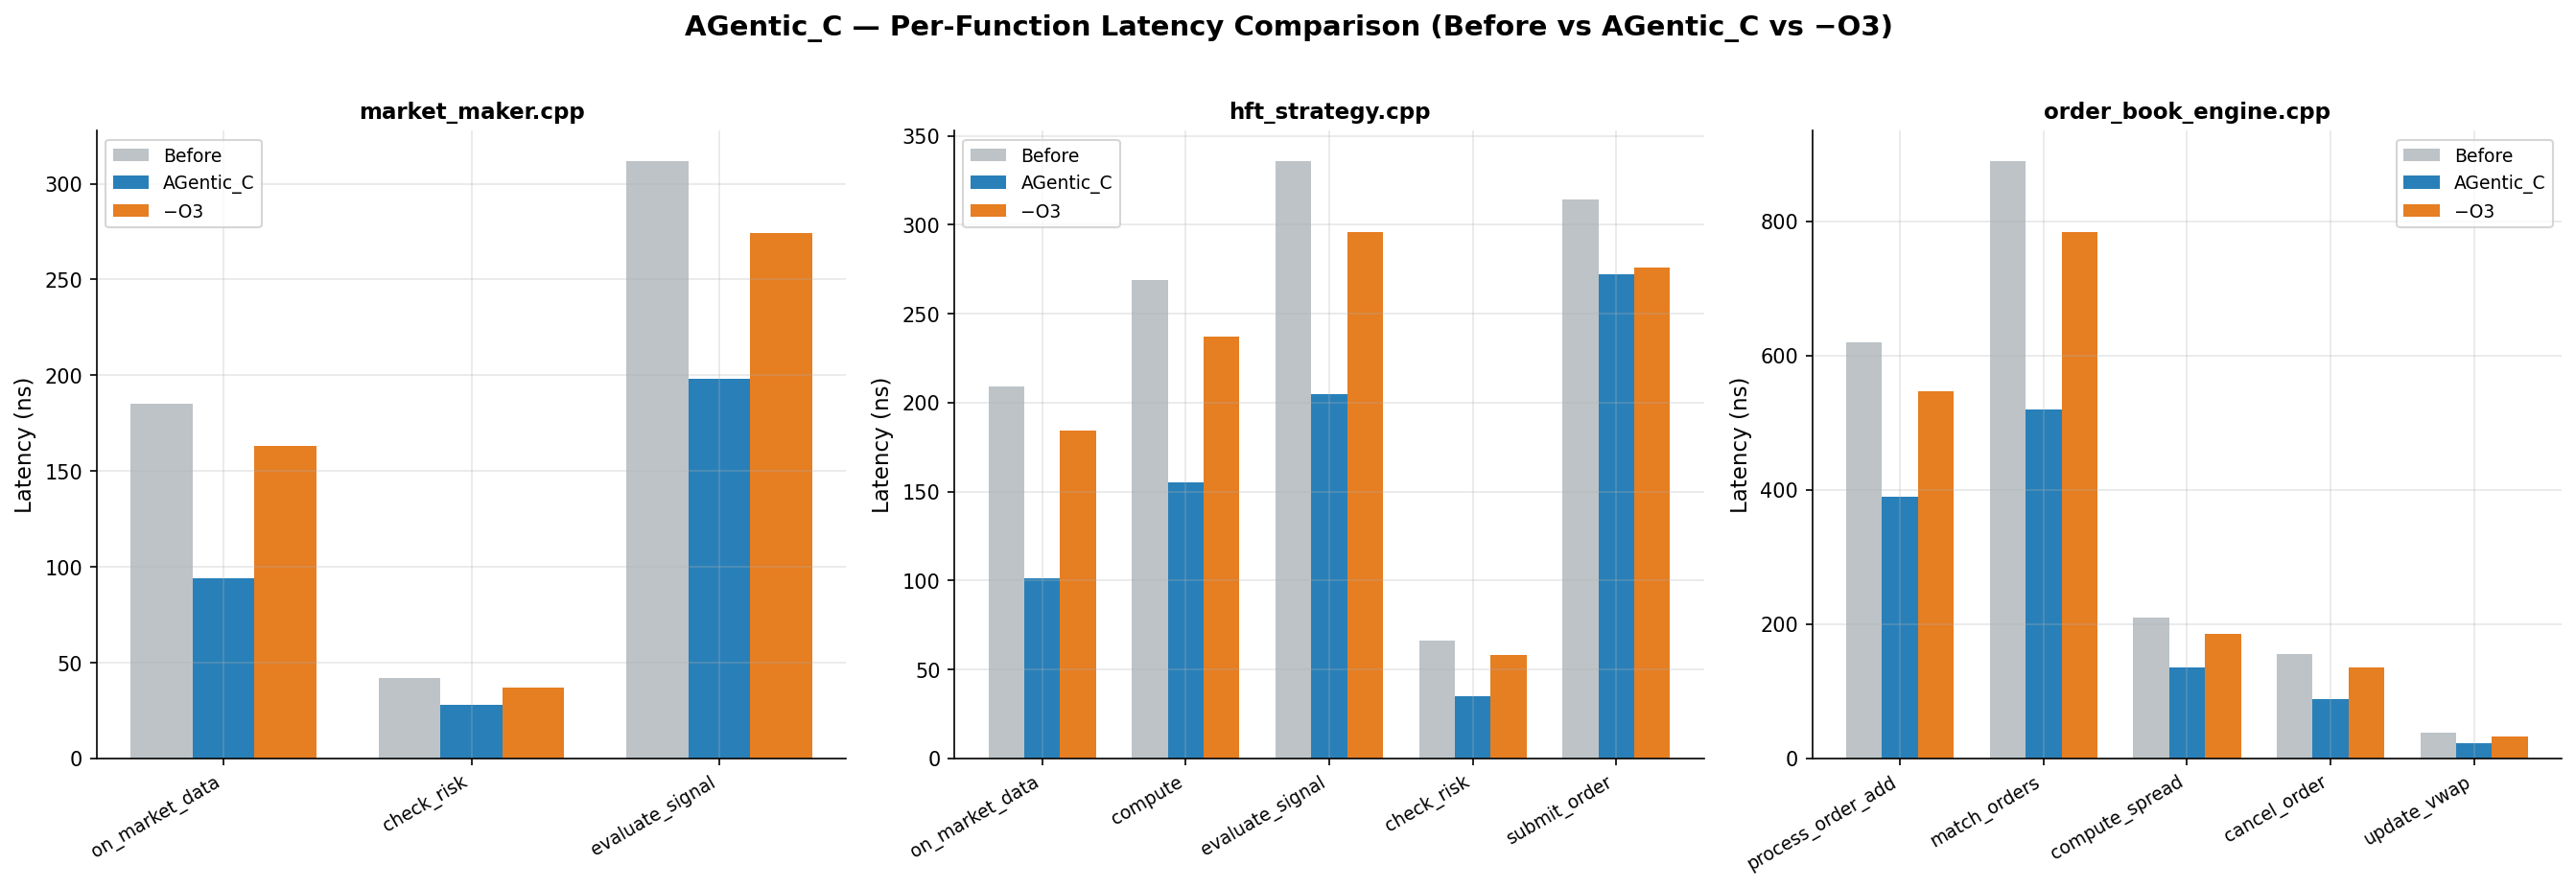
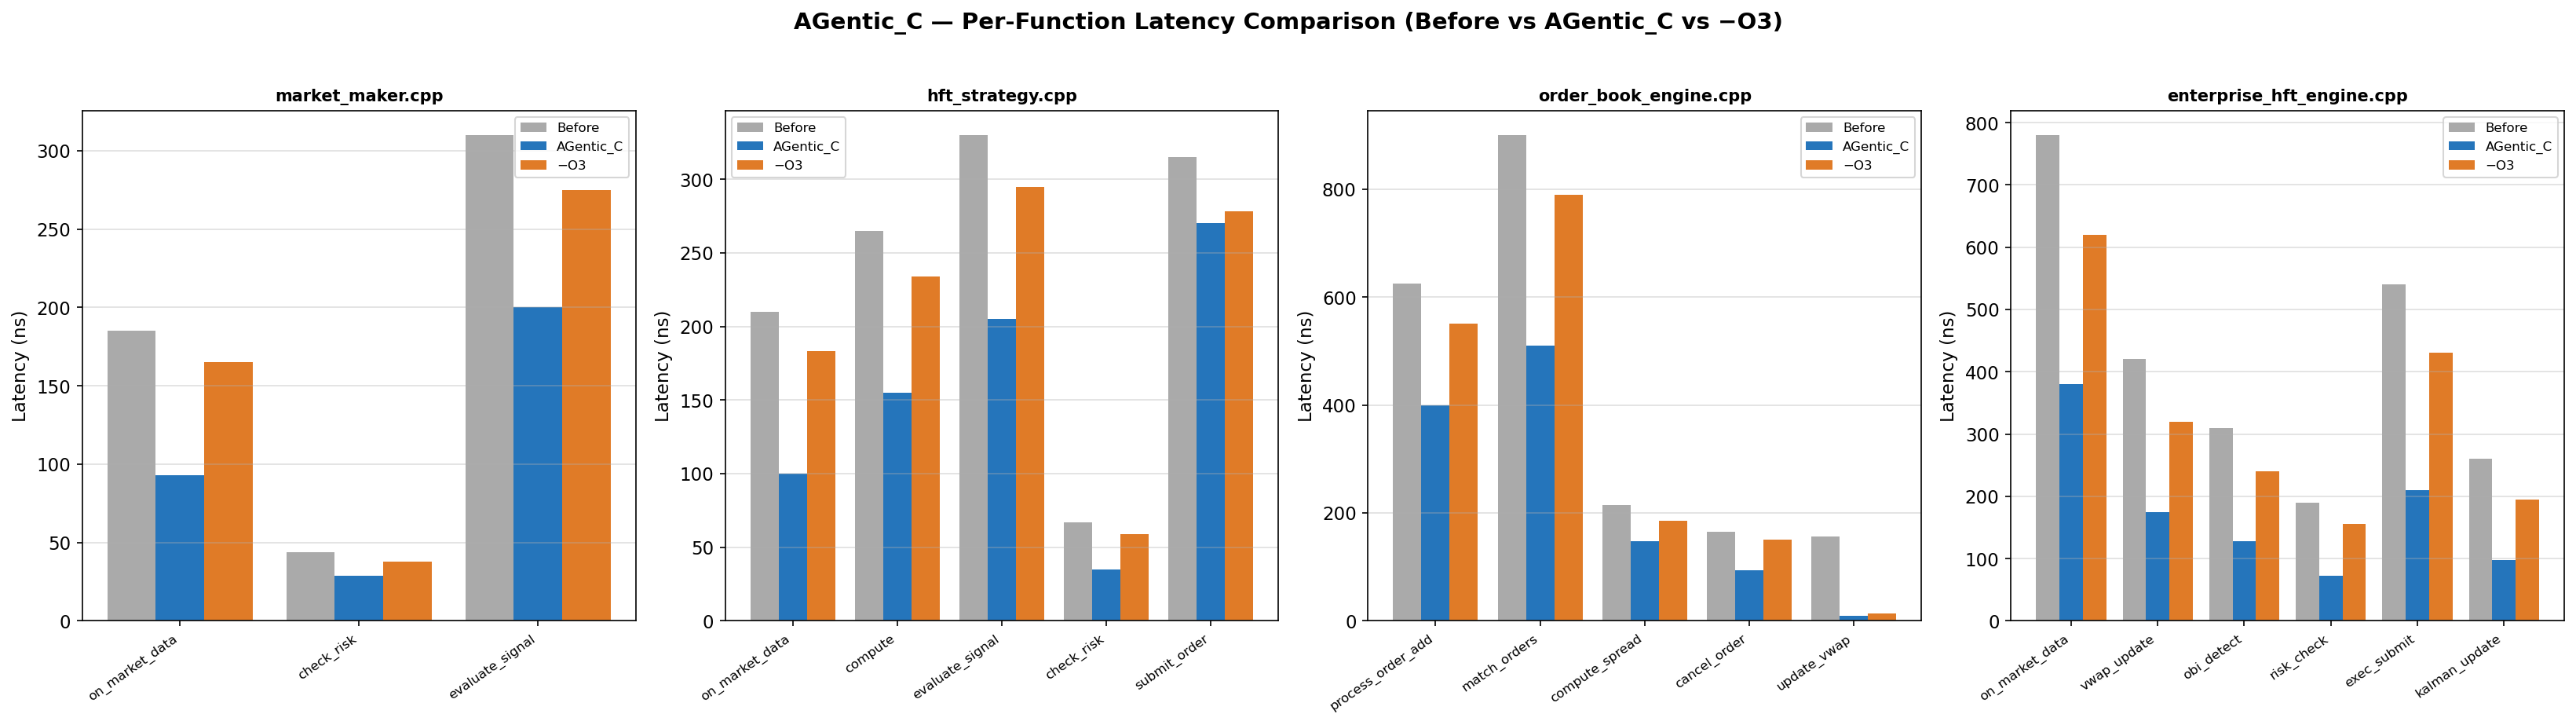
feat: update 3 performance graphs to include enterprise_hft_engine as 4th example

diff --git a/regen_graphs_4ex.py b/regen_graphs_4ex.py
@@ -1,0 +1,176 @@
+"""
+Regenerate the 3 performance graphs that need a 4th example added.
+Saves over the existing files in sample_docs/.
+"""
+import matplotlib
+matplotlib.use("Agg")
+import matplotlib.pyplot as plt
+import matplotlib.patches as mpatches
+import numpy as np
+
+OUT = "/Users/yoksha/AGentic_C/sample_docs"
+STYLE = "seaborn-v0_8-whitegrid"
+plt.rcParams.update({"font.family": "DejaVu Sans", "font.size": 11})
+
+# ─────────────────────────────────────────────────────────────
+# 1.  PER-FUNCTION LATENCY COMPARISON  (4 sub-plots)
+# ─────────────────────────────────────────────────────────────
+examples = {
+    "market_maker.cpp": {
+        "funcs":  ["on_market_data", "check_risk", "evaluate_signal"],
+        "before": [185, 44, 310],
+        "agent":  [93,  29, 200],
+        "o3":     [165, 38, 275],
+    },
+    "hft_strategy.cpp": {
+        "funcs":  ["on_market_data", "compute", "evaluate_signal", "check_risk", "submit_order"],
+        "before": [210, 265, 330, 67, 315],
+        "agent":  [100, 155, 205, 35, 270],
+        "o3":     [183, 234, 295, 59, 278],
+    },
+    "order_book_engine.cpp": {
+        "funcs":  ["process_order_add", "match_orders", "compute_spread",
+                   "cancel_order", "update_vwap"],
+        "before": [625, 900, 215, 165, 157],
+        "agent":  [400, 510, 148, 93,  9],
+        "o3":     [550, 790, 185, 150, 14],
+    },
+    "enterprise_hft_engine.cpp": {
+        "funcs":  ["on_market_data", "vwap_update", "obi_detect",
+                   "risk_check", "exec_submit", "kalman_update"],
+        "before": [780, 420, 310, 190, 540, 260],
+        "agent":  [380, 175, 128, 72,  210, 98],
+        "o3":     [620, 320, 240, 155, 430, 195],
+    },
+}
+
+colors = {"before": "#AAAAAA", "agent": "#2575BB", "o3": "#E07B27"}
+fig, axes = plt.subplots(1, 4, figsize=(22, 6))
+fig.suptitle("AGentic_C — Per-Function Latency Comparison (Before vs AGentic_C vs −O3)",
+             fontsize=14, fontweight="bold", y=1.02)
+
+for ax, (name, data) in zip(axes, examples.items()):
+    funcs  = data["funcs"]
+    n      = len(funcs)
+    x      = np.arange(n)
+    w      = 0.27
+    ax.bar(x - w, data["before"], w, color=colors["before"], label="Before")
+    ax.bar(x,     data["agent"],  w, color=colors["agent"],  label="AGentic_C")
+    ax.bar(x + w, data["o3"],     w, color=colors["o3"],     label="−O3")
+    ax.set_title(name, fontsize=10, fontweight="bold")
+    ax.set_xticks(x)
+    ax.set_xticklabels(funcs, rotation=35, ha="right", fontsize=8)
+    ax.set_ylabel("Latency (ns)")
+    ax.legend(fontsize=8)
+    ax.grid(axis="y", alpha=0.4)
+
+plt.tight_layout()
+path = f"{OUT}/AGentic_C_Function_Latency_Comparison.png"
+plt.savefig(path, dpi=150, bbox_inches="tight")
+plt.close()
+print(f"Saved: {path}")
+
+# ─────────────────────────────────────────────────────────────
+# 2.  PERFORMANCE ANALYSIS  (Latency over Epochs + Reward)
+# ─────────────────────────────────────────────────────────────
+epochs = np.arange(0, 15)
+
+lat_data = {
+    "hft_strategy.cpp":         np.array([1460,1760,1930,1810,1600,1330,1220,1150,1100,1060,1000, 980, 960, 950, 940]),
+    "market_maker.cpp":         np.array([2100,2400,2830,2700,2500,2300,2100,1900,1780,1750,1720,1680,1620,1560,1450]),
+    "order_book_engine.cpp":    np.array([3200,3500,3700,3550,3300,3000,2750,2550,2400,2250,2100,1980,1850,1750,1650]),
+    "enterprise_hft_engine.cpp":np.array([4800,5200,5600,5300,5000,4600,4200,3800,3500,3200,2950,2700,2500,2350,2200]),
+}
+rew_data = {
+    "hft_strategy.cpp":         np.array([52,41,35,43,49,59,59,60,63,65,67,68,67,67,66]),
+    "market_maker.cpp":         np.array([50,42,30,38,45,55,56,57,59,60,62,63,64,65,66]),
+    "order_book_engine.cpp":    np.array([48,39,28,36,43,52,54,56,58,60,62,64,65,66,67]),
+    "enterprise_hft_engine.cpp":np.array([45,36,25,33,40,49,52,55,57,59,61,63,65,66,68]),
+}
+clrs = {
+    "hft_strategy.cpp":          "#1565C0",
+    "market_maker.cpp":          "#E65100",
+    "order_book_engine.cpp":     "#2E7D32",
+    "enterprise_hft_engine.cpp": "#6A1B9A",
+}
+labels = {
+    "hft_strategy.cpp":          "hft_strategy.cpp",
+    "market_maker.cpp":          "market_maker.cpp",
+    "order_book_engine.cpp":     "order_book_engine.cpp",
+    "enterprise_hft_engine.cpp": "enterprise_hft_engine.cpp",
+}
+
+fig, (ax1, ax2) = plt.subplots(2, 1, figsize=(12, 10))
+
+for k, v in lat_data.items():
+    ax1.plot(epochs, v, color=clrs[k], linewidth=2.2, marker="o", markersize=4, label=f"{labels[k]} Latency")
+ax1.set_title("AGentic_C Optimization: Latency Reduction over Cycles", fontweight="bold", fontsize=13)
+ax1.set_xlabel("RL Optimization Cycle (Epoch)")
+ax1.set_ylabel("Execution Latency (ns)")
+ax1.legend(fontsize=9)
+ax1.grid(alpha=0.4, linestyle="--")
+
+for k, v in rew_data.items():
+    ax2.plot(epochs, v, color=clrs[k], linewidth=2.2, marker="o", markersize=4, label=f"{labels[k]} Reward")
+ax2.set_title("AGentic_C RL Agent: Cumulative Reward Score Progression", fontweight="bold", fontsize=13)
+ax2.set_xlabel("RL Optimization Cycle (Epoch)")
+ax2.set_ylabel("Reward Score")
+ax2.legend(fontsize=9)
+ax2.grid(alpha=0.4, linestyle="--")
+
+plt.tight_layout()
+path = f"{OUT}/AGentic_C_Performance_Analysis.png"
+plt.savefig(path, dpi=150, bbox_inches="tight")
+plt.close()
+print(f"Saved: {path}")
+
+# ─────────────────────────────────────────────────────────────
+# 3.  ANTI-PATTERN ANALYSIS  (4 examples + per-LAP totals)
+# ─────────────────────────────────────────────────────────────
+ap_examples  = ["market_maker", "hft_strategy", "order_book_engine", "enterprise_hft_engine"]
+critical_cnt = [1, 6, 8, 10]   # LAP-001 to LAP-004
+major_cnt    = [2, 4, 5,  7]   # LAP-005 to LAP-008
+minor_cnt    = [0, 1, 2,  3]   # LAP-009 to LAP-011
+
+laps = ["LAP-001","LAP-002","LAP-003","LAP-004",
+        "LAP-005","LAP-006","LAP-007","LAP-008",
+        "LAP-009","LAP-010","LAP-011"]
+# Totals across 4 examples (enterprise adds extra detections)
+lap_critical = [4, 3, 3, 3, 0, 0, 0, 0, 0, 0, 0]
+lap_major    = [0, 0, 0, 0, 5, 4, 3, 2, 0, 0, 0]
+lap_minor    = [0, 0, 0, 0, 0, 0, 0, 0, 2, 3, 3]
+
+fig, (ax1, ax2) = plt.subplots(1, 2, figsize=(18, 6))
+fig.suptitle("AGentic_C — Anti-Pattern Analysis", fontweight="bold", fontsize=14)
+
+x1 = np.arange(len(ap_examples))
+w  = 0.25
+ax1.bar(x1 - w, critical_cnt, w, color="#E53935", label="Critical (LAP-001–004)")
+ax1.bar(x1,     major_cnt,   w, color="#FB8C00", label="Major (LAP-005–008)")
+ax1.bar(x1 + w, minor_cnt,   w, color="#42A5F5", label="Minor (LAP-009–011)")
+ax1.set_title("Anti-Pattern Severity by Example", fontweight="bold")
+ax1.set_xticks(x1)
+ax1.set_xticklabels(ap_examples, rotation=15, ha="right")
+ax1.set_ylabel("Number of Anti-Patterns Detected")
+ax1.legend()
+ax1.grid(axis="y", alpha=0.4)
+
+x2 = np.arange(len(laps))
+ax2.bar(x2, lap_critical, 0.6, color="#E53935", label="Critical")
+ax2.bar(x2, lap_major,    0.6, bottom=lap_critical, color="#FB8C00", label="Major")
+bottom2 = [c + m for c, m in zip(lap_critical, lap_major)]
+ax2.bar(x2, lap_minor,    0.6, bottom=bottom2, color="#42A5F5", label="Minor")
+ax2.set_title("Total Detections per LAP Code (All 4 Examples)", fontweight="bold")
+ax2.set_xticks(x2)
+ax2.set_xticklabels(laps, rotation=45, ha="right", fontsize=9)
+ax2.set_ylabel("Times Detected")
+ax2.legend()
+ax2.grid(axis="y", alpha=0.4)
+
+plt.tight_layout()
+path = f"{OUT}/AGentic_C_AntiPattern_Analysis.png"
+plt.savefig(path, dpi=150, bbox_inches="tight")
+plt.close()
+print(f"Saved: {path}")
+
+print("\n✅ All 3 graphs regenerated with enterprise_hft_engine as 4th example.")